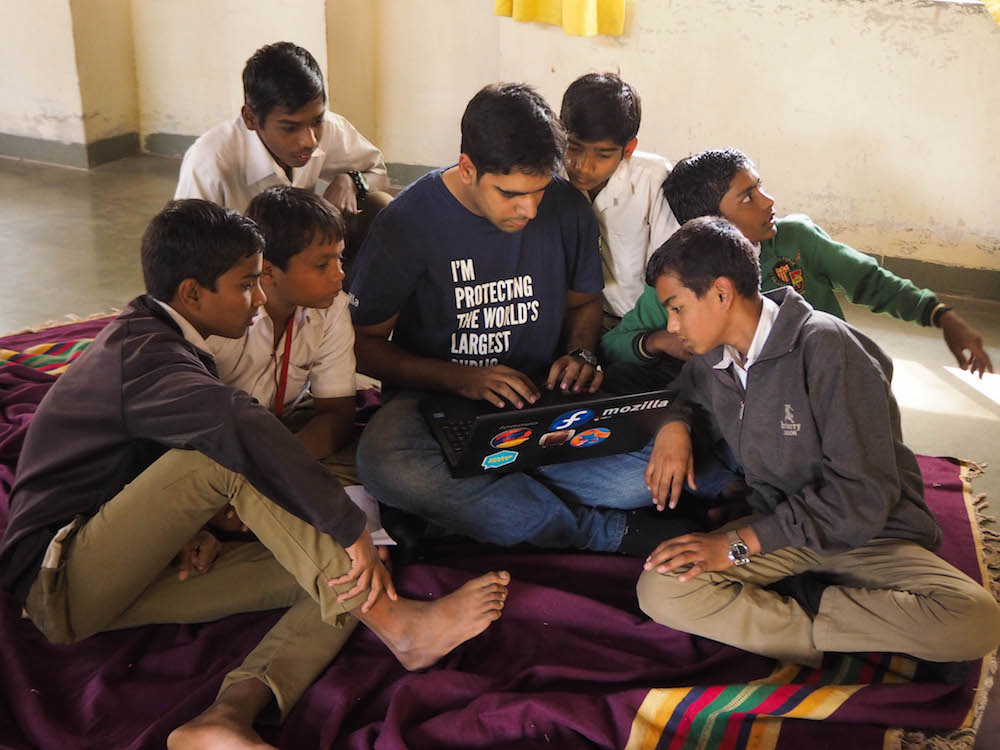
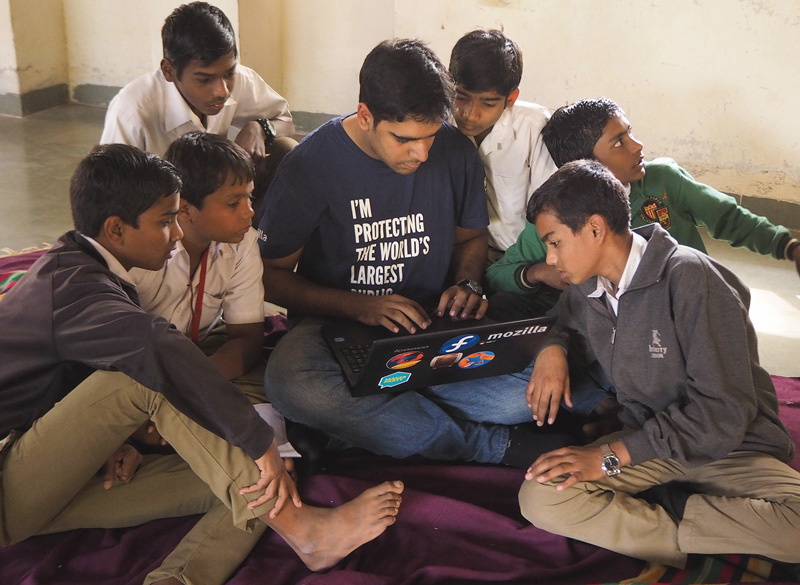
removed container restriction and changed images

diff --git a/style.css b/style.css
@@ -25,8 +25,6 @@ header {
 }
 
 .outer-wrapper {
-  width: 1170px;
-  margin: 0 auto;
 }
 
 .container {
@@ -38,11 +36,10 @@ header {
 
 .top {
   text-align: center;
-  height: 740px;
+  height: 708px;
   position: relative;
-  background: url('images/top.jpg');
-  background-size: 120%;
-  background-position: 47% -220px;
+  background: url('images/banner.jpg');
+  background-size: cover;
 }
 
 .top::before {
